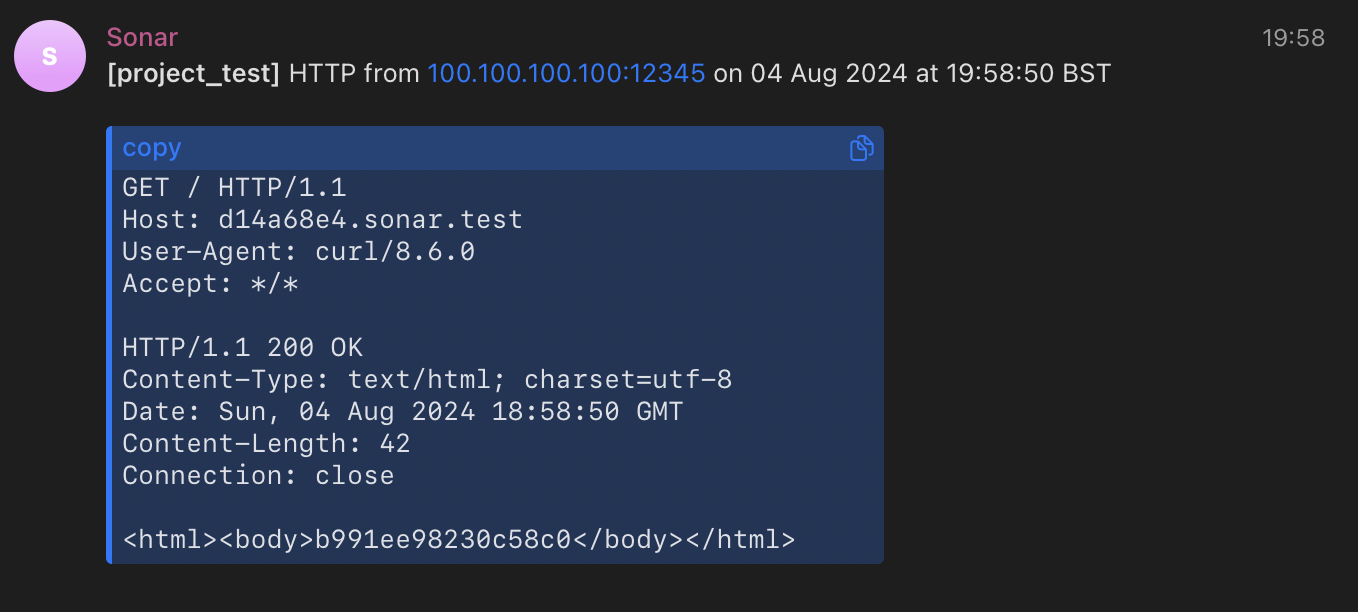
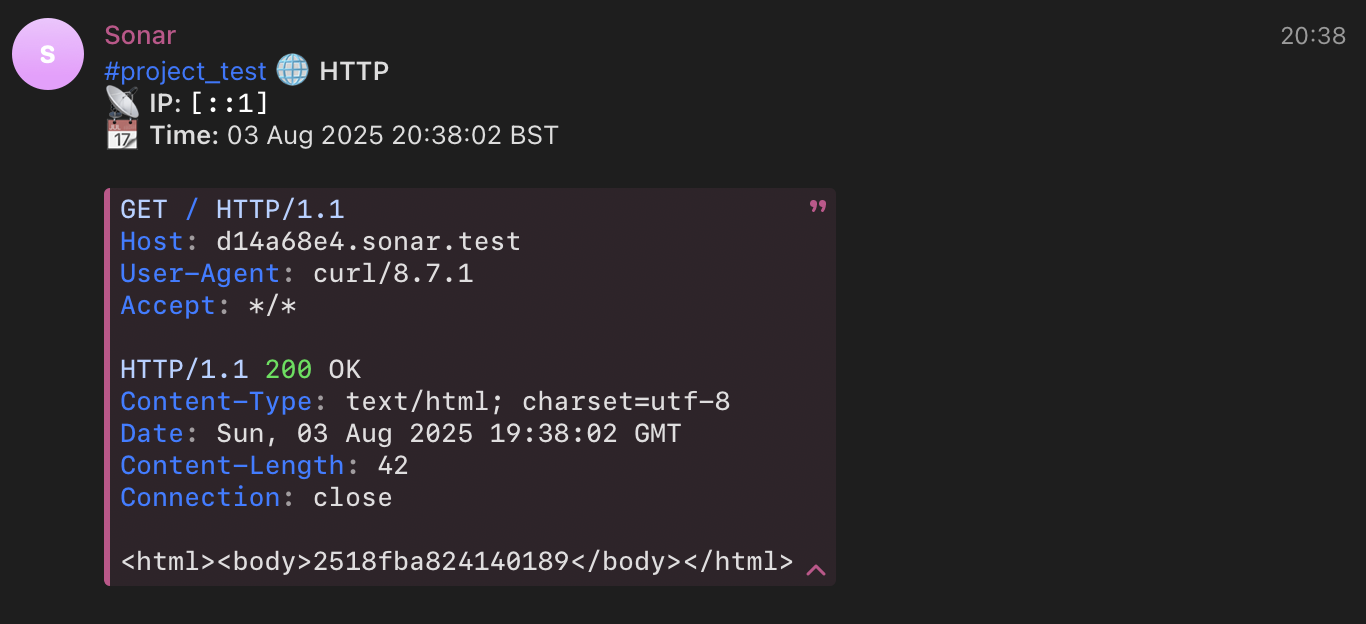
Updated documentation
- Added geoip configuration information
- Updated alerts example screenshots

diff --git a/docs/docs/install/server.md b/docs/docs/install/server.md
@@ -62,7 +62,8 @@ services:
       - 31338:31338 # Webhooks (currently only used by Lark messenger in "webhook" mode)
     volumes:
       - ./tls:/opt/app/tls # TLS certificates persistance
-      - ./config.yml:/opt/app/config.yml # Config file: see "Configuration"
+      - ./config.yml:/opt/app/config.yml # Config file, see "Configuration"
+      - ./geoip:/opt/app/geoip:ro # Directory with GeoLite2 databases, see "Configuration->geoip"
 
   db:
     image: postgres:16
@@ -107,6 +108,20 @@ email = "<EMAIL>"
 # [tls.custom]
 # cert = "/path/to/cert.pem"
 # key = "/path/to/key.pem"
+
+[telemetry]
+# OTEL telemetry is disabled by default.
+# If enabled, the OTEL_EXPORTER_OTLP_ENDPOINT must be set.
+enabled = false
+
+[geoip]
+# GeoIP lookup for IP addresses. Disabled by default.
+# Requires GeoLite2 databases: https://dev.maxmind.com/geoip/geolite2-free-geolocation-data/
+enabled = true
+# Path to file with City database.
+city = "geoip/GeoLite2-City.mmdb"
+# Path to file with ASN database.
+asn = "geoip/GeoLite2-ASN.mmdb"
 
 [modules]
 # List of enabled modules. Currently three modules are supported: "api", "telegram" and "lark".

diff --git a/docs/docs/guides/quick-start.md b/docs/docs/guides/quick-start.md
@@ -47,23 +47,23 @@ Sonar can be managed either by sending messages to the chat with the bot in Mess
 
  - `project_test` — payload's name (the same as was used in the `/new' command when the payload was created)
  - `HTTP` — protocol of the iteraction
- - `100.100.100.100:12345` — IP address and port from which the interaction occurred
- - `04 Aug 2024 at 19:58:50 BST` — date and time of the interaction
+ - `[::1]` — IP address from which the interaction occurred
+ - `03 Aug 2025 20:38:02 BST` — date and time of the interaction
  - The interaction details:
 
    ```
    GET / HTTP/1.1
    Host: d14a68e4.sonar.test
-   User-Agent: curl/8.6.0
+   User-Agent: curl/8.7.1
    Accept: */*
 
    HTTP/1.1 200 OK
    Content-Type: text/html; charset=utf-8
-   Date: Sun, 04 Aug 2024 18:58:50 GMT
+   Date: Sun, 03 Aug 2025 19:38:02 GMT
    Content-Length: 42
    Connection: close
 
-   <html><body>b991ee98230c58c0</body></html>
+   <html><body>2518fba824140189</body></html>
    ```
    In the case of HTTP/HTTPS, this is the interaction *request* and *response*.
 
